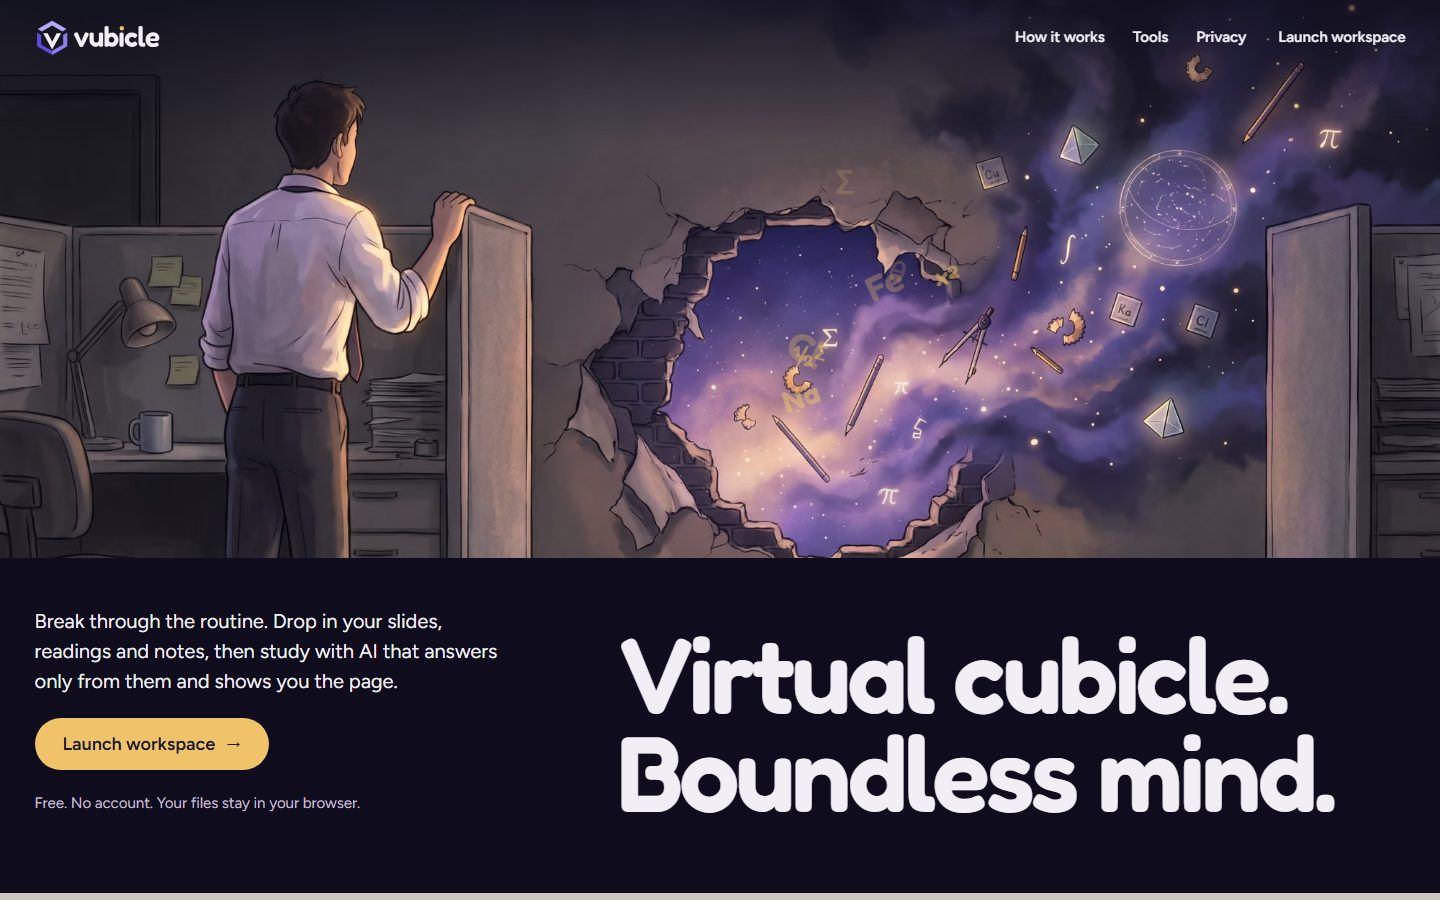
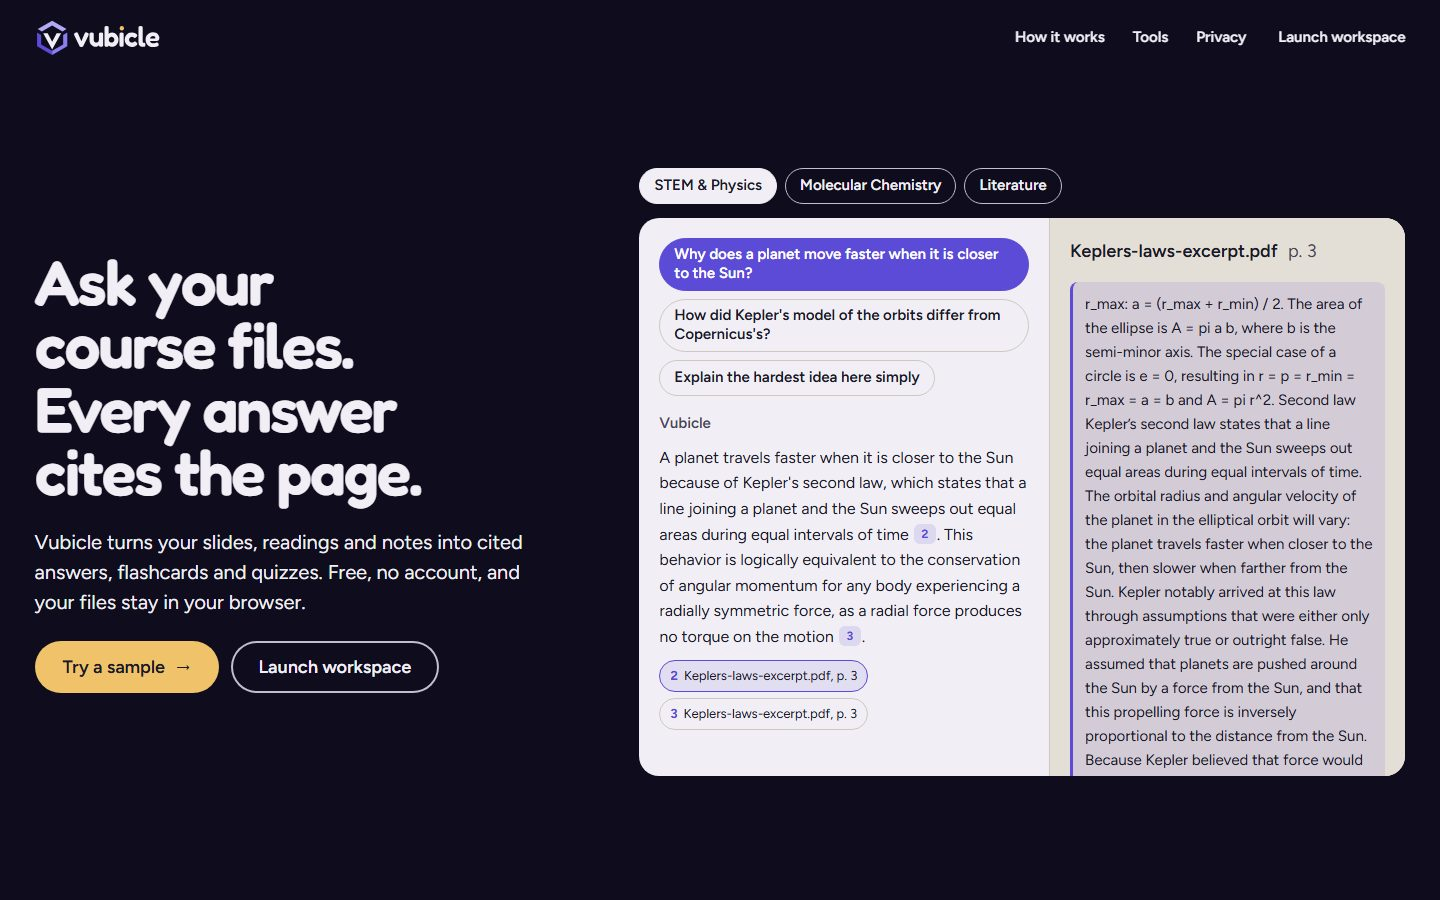
README: retake the landing screenshot with the new hero
Taken from vubicle.com at 1440x900, the same settings as the README script.
The image description now matches the new page.

diff --git a/README.md b/README.md
@@ -13,7 +13,7 @@ Vubicle stands for **virtual cubicle**: one study workspace per course. A studen
 
 It runs entirely on free tiers (Vercel Hobby, Google Gemini, Groq, Upstash Redis), so most of the interesting engineering is about staying reliable when any one free service is slow, overloaded or out of quota. It does that without making students download anything or see an error.
 
-![Vubicle landing page: an office worker looks through a hole broken in his cubicle wall at a galaxy full of study symbols](docs/screenshots/landing.jpg)
+![Vubicle landing page: the headline "Ask your course files. Every answer cites the page." beside a sample answer about Kepler's second law, with the cited page of the source open next to it](docs/screenshots/landing.jpg)
 
 ## Contents
 
